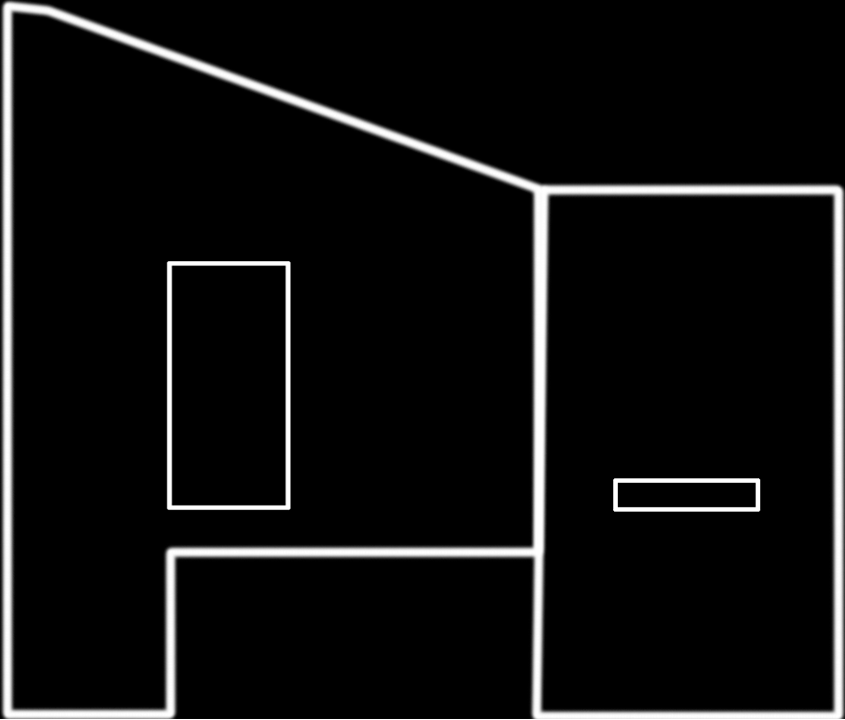
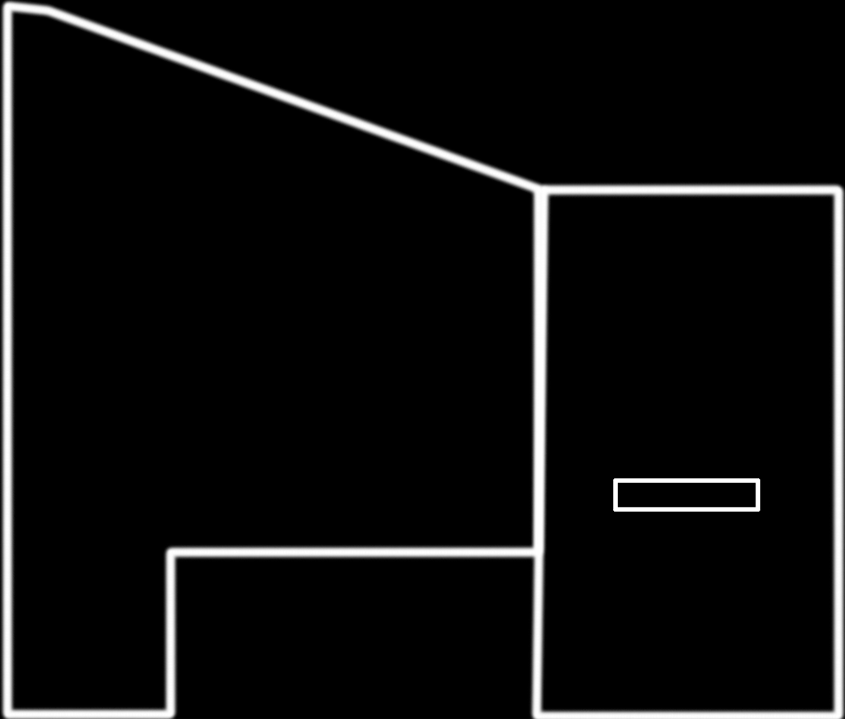
DEFINITIVO

Changed region(s): [[0.2154, 0.3361, 0.3692, 0.7028], [0.1846, 0.3667, 0.3385, 0.7333]]

diff --git a/src/Logica.java b/src/Logica.java
@@ -38,10 +38,12 @@ public class Logica {
 	private Start inicio;
 	private int pantallas=0;
 
+
+
 	//Sound Atributes
 	public Minim minim;
 	public BeatDetect beat;
-	private PImage img1, img2, img3;
+	private PImage img1, img2, img3, gtech;
 
 	// Constructor
 	public Logica(PApplet _app) {
@@ -59,6 +61,7 @@ public class Logica {
 		img1= app.loadImage("assets/instru.png" );
 		img2= app.loadImage("assets/instru2.png" );
 		img3= app.loadImage("assets/instru3.png" );
+		gtech= app.loadImage("assets/gtech.jpg" );
 
 	}
 
@@ -102,13 +105,12 @@ public class Logica {
 
 switch (pantallas){
 
-
 	case 0:
 
 		app.rect(162,270, 115, 239);
+		app.text("Patrocinado por:",30,540);
+		app.image(gtech, 30, 569, 120,120);
 		inicio.pintar();
-
-
 
 		break;
 
